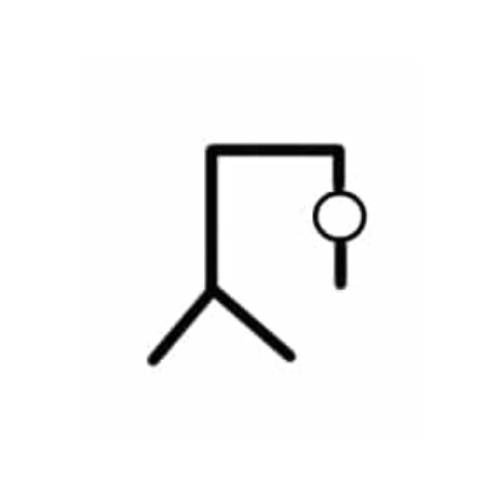
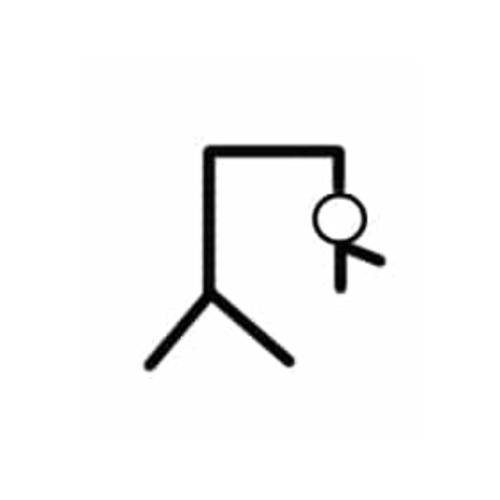
game over functionality implemented

Changed region(s): [[0.27, 0.27, 0.69, 0.75], [0.6, 0.36, 0.78, 0.54], [0.66, 0.57, 0.69, 0.6]]

diff --git a/src/main/java/HangmanGame/GameFunctionality/EventManager.java b/src/main/java/HangmanGame/GameFunctionality/EventManager.java
@@ -2,10 +2,15 @@ package HangmanGame.GameFunctionality;
 
 import java.awt.event.ActionEvent;
 import java.awt.event.ActionListener;
+import java.io.FileInputStream;
+import java.io.FileNotFoundException;
+import java.io.IOException;
 import java.util.ArrayList;
 import java.util.Enumeration;
 
+import javax.imageio.ImageIO;
 import javax.swing.AbstractButton;
+import javax.swing.ImageIcon;
 import javax.swing.JButton;
 import javax.swing.JOptionPane;
 
@@ -18,6 +23,9 @@ public class EventManager implements ActionListener{
     private Word word;
     private String[] letters;
     private ArrayList<String> mask = new ArrayList<String>();
+    
+    int pole;
+    int hits;
 
 	public EventManager(GamingInterface gameingInterface) {		
 		//INTERFACE INSTANCE
@@ -31,7 +39,15 @@ public class EventManager implements ActionListener{
 	public void actionPerformed(ActionEvent e) {
 		if(e.getActionCommand().equals("START GAME")) {			
 			//INITIALIZE GAME
-			initializeGame(); 
+			try {
+				initializeGame();
+			} catch (FileNotFoundException e1) {
+				// TODO Auto-generated catch block
+				e1.printStackTrace();
+			} catch (IOException e1) {
+				// TODO Auto-generated catch block
+				e1.printStackTrace();
+			} 
 			
 			//SPECIFIC EVENT SOURCE BUTTON FROM BUTTONGROUP EVENT
 		}else if(e.getActionCommand().equals("letter")) {
@@ -40,8 +56,15 @@ public class EventManager implements ActionListener{
 			for (String string : letters) {
 				System.out.println("SECRET: "+string+" USER KEY: "+letter.getText());			
 			}			
-			// TODO external method
-			checkKey(letter.getText(), mask);
+			try {
+				checkKey(letter.getText(), mask);
+			} catch (FileNotFoundException e1) {
+				// TODO Auto-generated catch block
+				e1.printStackTrace();
+			} catch (IOException e1) {
+				// TODO Auto-generated catch block
+				e1.printStackTrace();
+			}
 
 			
 		}else if(e.getActionCommand().equals("About")) {
@@ -58,7 +81,10 @@ public class EventManager implements ActionListener{
 		
 	}
 		
-	public void initializeGame(){		
+	public void initializeGame() throws FileNotFoundException, IOException{
+		//RESTORE GALLOWNS POLE
+		gamingInterface.label_gallowns_pole.setIcon(new ImageIcon(ImageIO.read(new FileInputStream("resources/hangman0.jpg"))));
+		pole = 0;
 		//SHOW BULBS
 		gamingInterface.label_bulb_1.setVisible(true);
 		gamingInterface.label_bulb_2.setVisible(true);
@@ -66,13 +92,14 @@ public class EventManager implements ActionListener{
 		gamingInterface.label_bulb_4.setVisible(true);
 		gamingInterface.label_bulb_5.setVisible(true);		
 		//SECRET WORD INVOCATION
+		word = new Word();
 		String secretWord = word.getSecretWord();
-		System.out.println(secretWord+" "+secretWord.length()+" letters"); //MONITORING
 		letters = word.wordSplited();
 		for (String string : letters) {//MONITORING
 			System.out.println(string);
 		}
 		//MASK THE HIDDEN WORD
+		mask = new ArrayList<String>();
 		for (int i = 0; i < secretWord.length(); i++) {
 			mask.add("*");
 		}
@@ -80,33 +107,69 @@ public class EventManager implements ActionListener{
 		String str = String.valueOf(mask);
 		//SAMPLE PER SCREEN
 		gamingInterface.textFieldWord.setText(str.replace("[", "").replace("]", "").replace(",",""));
+		//RESET FAILURE SCORE
+		gamingInterface.lblFailures.setVisible(true);
+		gamingInterface.lblFailures.setText("Failures: "+0);
 		//ACTIVATE KEYBOARD 
 		for (Enumeration<AbstractButton> buttons = gamingInterface.keyboard.getElements(); buttons.hasMoreElements();) {
             AbstractButton button = buttons.nextElement();
             button.setEnabled(true);
         }
+		//ACTIVATE HINT BUTTON
+		gamingInterface.btn_hint.setEnabled(true);
 
 
 	};
-	
-	public void checkKey(String letter, ArrayList<String> mask) {
+	//CHECK THE TURN AND IF IT CORRECTLY SHOWS THE CORRECT LETTERS AND IF IT FAILS IT CONTINUES BUILDING THE GALLOWNS POLE
+	public void checkKey(String letter, ArrayList<String> mask) throws FileNotFoundException, IOException {
 		int index = 0;
+	    boolean gate = true;
 		for (int j = 0; j < letters.length; j++) {
 			if(letters[j].equals(letter)) {
 				mask.set(index, letter);
-			}else{
-				mask.set(index, "*");
-			};
+				gate = false;
+				hits++;
+			}
 			index++;
 		}
 		String str = String.valueOf(mask);
 		gamingInterface.textFieldWord.setText(str.replace("[", "").replace("]", "").replace(",", ""));
 		System.out.println(str);
+		if(gate) {
+			pole++;
+			gamingInterface.label_gallowns_pole.setIcon(new ImageIcon(ImageIO.read(new FileInputStream("resources/hangman"+(pole)+".jpg"))));
+			gate = true;
+		}
+		gameOver(pole);
 		
+	};
+	//GAME OVER 
+	public void gameOver(int gallownsPole) throws FileNotFoundException, IOException {
+		//UPDATE FAILURES SCORE
+		gamingInterface.lblFailures.setText("Failures: "+(pole));
+		//IF GALLOWNS POLE TRACKS UP TO THE SIX POLES IT FINISHES THE GAME
+		if(gallownsPole == 6) {
+			//SET KEYBOARD DEACTIVATED
+			for (Enumeration<AbstractButton> buttons = gamingInterface.keyboard.getElements(); buttons.hasMoreElements();) {
+	            AbstractButton button = buttons.nextElement();
+	            button.setEnabled(false);
+	        }
+			//DEACTIVATE HINT BUTTON
+			gamingInterface.btn_hint.setEnabled(false);
+			//GAME OVER ALERT
+			JOptionPane.showMessageDialog(gamingInterface,"YOU'VE LOST DE GAME :( "+"\nFailed: "+pole, "GAME OVER", JOptionPane.YES_NO_OPTION);
+			//CLEAN WORD DISPLAYER
+			gamingInterface.textFieldWord.setText("");
+
+		}else if(hits == letters.length){
+			JOptionPane.showMessageDialog(gamingInterface,"YOU'VE WIN DE GAME :) "+"\nFailed: "+pole, "GAME OVER", JOptionPane.YES_NO_OPTION);
+		}
 	}
+		
+};
 	
 			
-}
+
 
 
 	

diff --git a/src/main/java/HangmanGame/GameInterface/GamingInterface.java b/src/main/java/HangmanGame/GameInterface/GamingInterface.java
@@ -38,6 +38,7 @@ public class GamingInterface extends JFrame {
 	public JLabel label_bulb_5;
 	public JLabel lblFailures;
 	public ButtonGroup keyboard;
+	public JButton btn_hint;
 
 	/**
 	 * Create the frame.
@@ -83,10 +84,11 @@ public class GamingInterface extends JFrame {
 		btn_start.setActionCommand("START GAME");
 		panel.add(btn_start);
 		
-		JButton btn_hint = new JButton("HINT");
+		btn_hint = new JButton("HINT");
 		btn_hint.setBounds(10, 68, 287, 35);
 		btn_hint.addActionListener(eventManager);
 		btn_hint.setActionCommand("HINT");
+		btn_hint.setEnabled(false);
 		panel.add(btn_hint);
 		
 		JPanel panel_1 = new JPanel();
@@ -145,6 +147,7 @@ public class GamingInterface extends JFrame {
 		lblFailures.setFont(new Font("Comic Sans MS", Font.BOLD, 10));
 		lblFailures.setForeground(Color.DARK_GRAY);
 		lblFailures.setBounds(220, 34, 77, 13);
+		lblFailures.setVisible(false);
 		panel_1.add(lblFailures);
 		
 		// KEYBOARD ELEMENTS GROUP
@@ -360,7 +363,7 @@ public class GamingInterface extends JFrame {
 		
 		label_gallowns_pole = new JLabel("gallowns pole");
 		label_gallowns_pole.setBounds(10, 10, 477, 500);
-		label_gallowns_pole.setIcon(new ImageIcon(ImageIO.read(new FileInputStream("resources/hangman1.jpg"))));
+		label_gallowns_pole.setIcon(new ImageIcon(ImageIO.read(new FileInputStream("resources/hangman0.jpg"))));
 		panel_4.add(label_gallowns_pole);
 	}
 }
